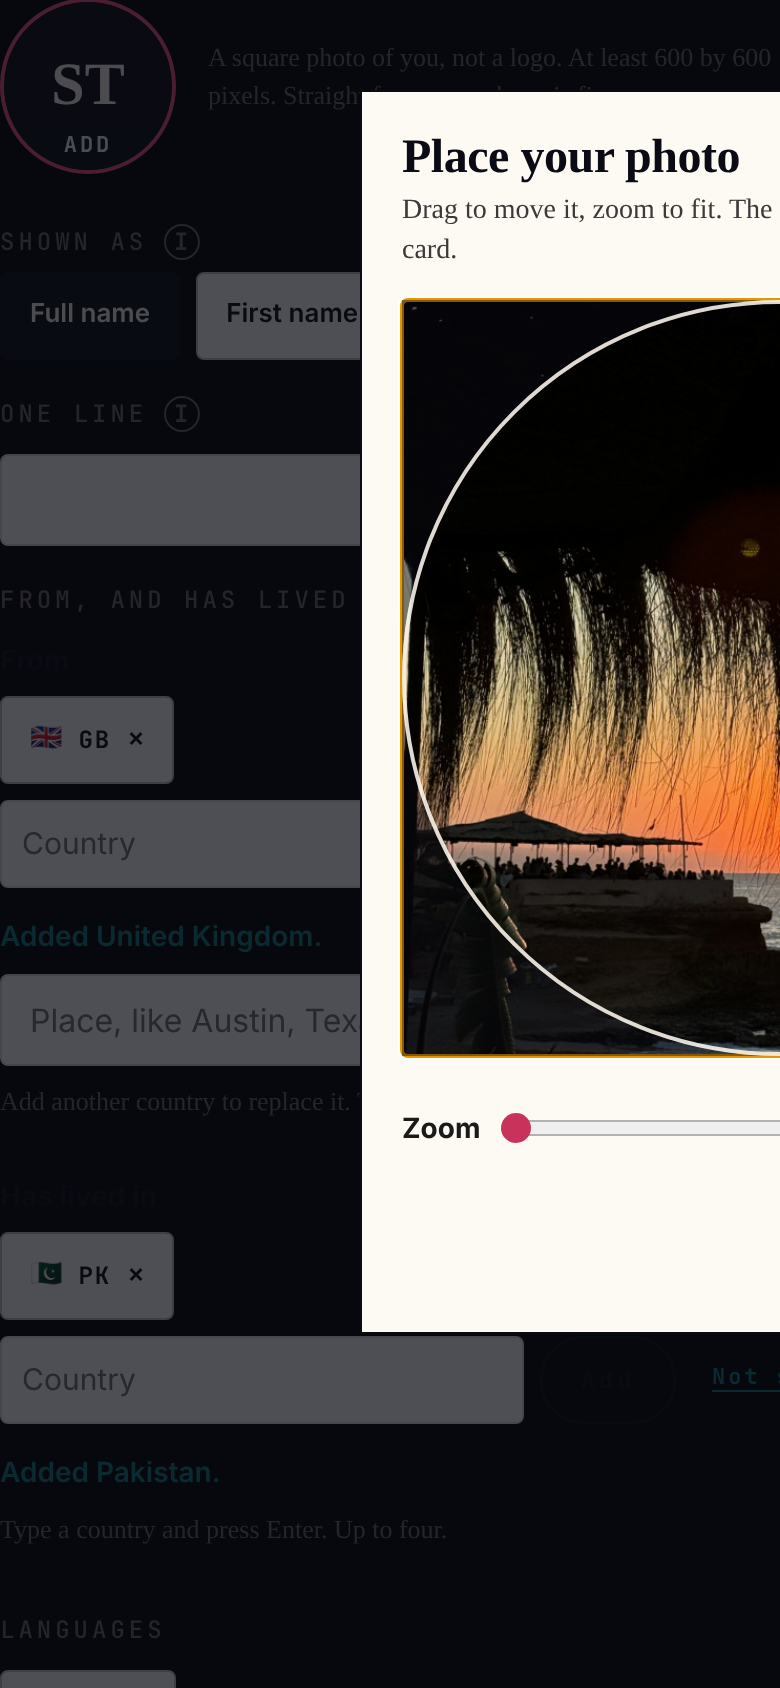
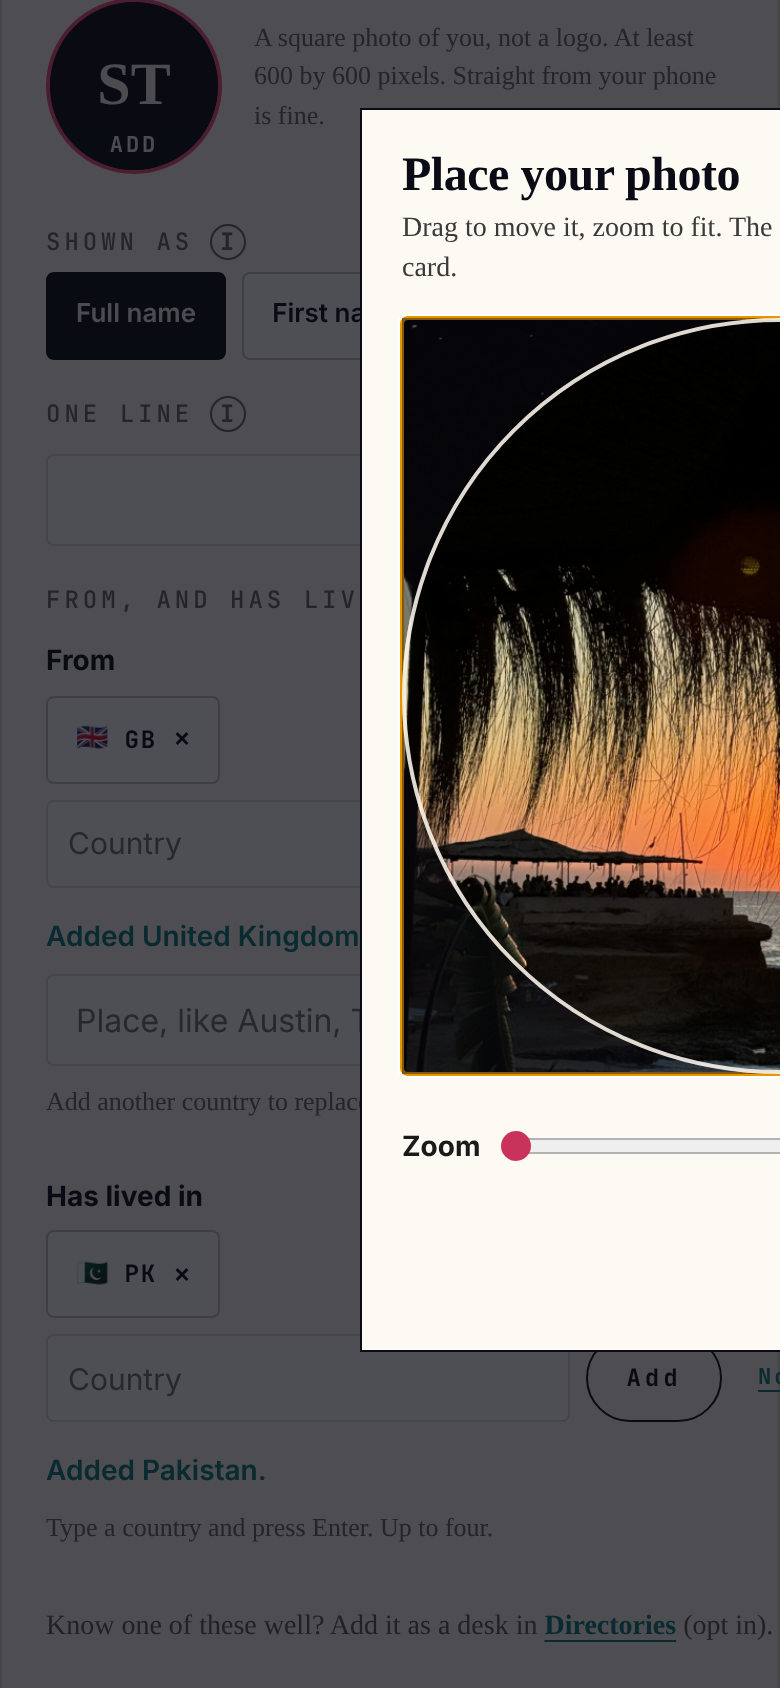
/edit-profile: Directories marked opt in and tied to Claim your desk; one-tap desks from From and Has lived in; + Antarctica in the preview
Claude-Session: https://claude.ai/code/session_01GTTttGvX2VTwovAB2g1cLf

diff --git a/src/site-layers/tll-ep-ux-v1.js b/src/site-layers/tll-ep-ux-v1.js
@@ -36,6 +36,12 @@ var CSS=
 ".tll-eps-btn--ghost{background:transparent;color:#0A0B14!important}"+
 ".tll-eps-btn:focus-visible{outline:3px solid #C8325B;outline-offset:2px}"+
 /* preview card: "80-something +AQ" broke mid-word in a third of the card; stats now wrap as whole words */
+"html body .ep-pv-stats b .tll-eps-aq{display:block;margin-top:4px;font:600 12px/1.3 'JetBrains Mono',ui-monospace,monospace!important;letter-spacing:.12em;text-transform:uppercase;color:inherit}"+
+"html body p.ep-note.tll-eps-lived,html body p.tll-eps-optin{margin:8px 0 0;font-size:14px;line-height:1.45;color:#5F5A54}html body p.tll-eps-optin{margin:0 0 16px;padding:10px 12px;border-left:3px solid #067A79;background:#FFFFFF}"+
+"html body p.ep-note.tll-eps-lived a,html body p.tll-eps-optin a{color:#067A79;font-weight:600;text-decoration:underline;text-underline-offset:3px}html body p.ep-note.tll-eps-lived a:hover,html body p.tll-eps-optin a:hover{color:#C8325B}"+
+"html body #ep-dirs-h>span:not(.tll-eps-chip){display:none}"+
+".tll-eps-quick{display:flex;flex-wrap:wrap;gap:8px;align-items:center;margin:12px 0 4px}.tll-eps-quick[hidden]{display:none}.tll-eps-quick>span{width:100%;font-size:14px;color:#5F5A54}"+
+".tll-eps-qb{min-height:40px;padding:8px 12px;border:1.5px solid #0A0B14;border-radius:999px;background:#FFFFFF;color:#0A0B14;font:600 14px/1.2 'IBM Plex Sans Condensed',system-ui,sans-serif;cursor:pointer}.tll-eps-qb:hover{border-color:#C8325B;color:#C8325B}.tll-eps-qb:focus-visible{outline:3px solid #C8325B;outline-offset:2px}"+
 "html body .ep-pv-stats{display:flex!important;flex-wrap:wrap;gap:12px 22px}html body .ep-pv-stats>*{min-width:0}html body .ep-pv-stats b{white-space:nowrap;overflow-wrap:normal!important;word-break:keep-all;font-size:28px!important}"+
 /* blocks (Nancy: "too long. Should be in blocks. Also should identify optional vs required") */
 "html body section.ep-sec.tll-eps-blk{position:relative;background:#FDF9F3;border:1.5px solid #E0DACE;border-radius:4px;padding:22px 22px 24px!important;margin:0 0 16px!important}"+
@@ -171,7 +177,7 @@ D.addEventListener('change',function(e){var t=e.target;if(!t||t.id!=='ep-f-photo
   e.stopImmediatePropagation();e.preventDefault();cropFlow(f,t);},true);
 
 /* ---------- 6: the page as blocks ---------- */
-var CHIP={'ep-who':['Name required','req'],'ep-dirs':null};
+var CHIP={'ep-who':['Name required','req'],'ep-dirs':['Opt in','']};
 function setShut(sec,shut){sec.classList.toggle('tll-eps-shut',shut);var b=sec.querySelector(':scope>.tll-eps-tog');if(b){b.textContent=shut?'Open':'Close';b.setAttribute('aria-expanded',shut?'false':'true');}}
 function openTo(id){var sec=D.getElementById(id);if(sec&&sec.classList.contains('tll-eps-blk'))setShut(sec,false);}
 /* Some parts of a section are their own embeds after it (Shown as, One line, From and lived in after Who you are; the bio note after
@@ -192,8 +198,37 @@ function blocks(){gather();[].forEach.call(D.querySelectorAll('section.ep-sec[id
     if(e.target.closest&&e.target.closest('[data-ep-dev-next],[data-ep-next]'))[].forEach.call(D.querySelectorAll('section.tll-eps-shut'),function(x){setShut(x,false);});},true);
   addEventListener('hashchange',function(){openTo(location.hash.slice(1));});}
 
+/* ---------- 7: where you have lived, and the expat desks (Nancy: "We ask the expat question twice"; "The expat desk should still be
+   tied here with this form tied to the expat submission. This is definitely opt in.") ----------
+   Has lived in under Who you are stays the everyday question. The Directories block is marked Opt in, with a line at its top that points
+   to the location expert application on /for-expats. Under Has lived in, a line points to the desks. Inside the desks, each country
+   from From and Has lived in with no desk yet is offered as one tap ("Add a desk for Denmark"), which runs the page's own desk Add, so
+   nothing new is stored and nothing is added without a tap. The preview's Antarctica mark reads "+ Antarctica" in place of AQ. */
+var LIVED_NOTE='Know one of these well? Add it as a desk in <a href="#ep-dirs">Directories</a> (opt in).';
+var OPTIN_NOTE='Add a desk only for a place you know well enough to help a visitor. Want to be listed as a location expert? <a href="/for-expats#tll-expert-apply">Claim your desk →</a>';
+function livedPaint(E){var lf=D.querySelector('[data-ep-livedflags]'),sub=lf&&lf.closest('.ep-sub'),L=E.list(E.get('from-and-lived-in'));
+  if(sub){var n=D.getElementById('tll-eps-lived');if(!n){n=el('p','ep-note tll-eps-lived');n.id='tll-eps-lived';n.innerHTML=LIVED_NOTE;sub.appendChild(n);}
+    var h=L.length<2;if(n.hidden!==h)n.hidden=h;}
+  var dirs=D.getElementById('ep-dirs');if(dirs&&!D.getElementById('tll-eps-optin')){var o=el('p','tll-eps-optin');o.id='tll-eps-optin';o.innerHTML=OPTIN_NOTE;
+    var ld=dirs.querySelector(':scope>p.ep-lede'),h2=dirs.querySelector(':scope>h2.ep-eb'),at=ld||h2;if(at)at.parentNode.insertBefore(o,at.nextSibling);else dirs.insertBefore(o,dirs.firstChild);}
+  var box=D.querySelector('[data-ep-desks]'),add=box&&box.querySelector('.ep-desk-add');
+  if(add){var qk=D.getElementById('tll-eps-quick');if(!qk){qk=el('div','tll-eps-quick');qk.id='tll-eps-quick';add.parentNode.insertBefore(qk,add);}
+    var have={};(E.desksShown||E.jsonList('desks')).forEach(function(d){if(d&&d.c)have[d.c]=1;});
+    var todo=L.filter(function(c,i){return c&&!have[c]&&L.indexOf(c)===i;}),key=todo.join(',');
+    if(qk.getAttribute('data-k')!==key){qk.setAttribute('data-k',key);qk.innerHTML='';
+      if(todo.length){var t=el('span');t.textContent='From your profile:';qk.appendChild(t);
+        todo.forEach(function(c){var b=el('button','tll-eps-qb');b.type='button';b.setAttribute('data-tll-desk',c);b.textContent='Add a desk for '+E.cname(c);qk.appendChild(b);});}}
+    var hid=!todo.length;if(qk.hidden!==hid)qk.hidden=hid;}
+  var pc=D.querySelector('[data-ep-pv-countries]');
+  if(pc&&!pc.querySelector('.tll-eps-aq')&&/ \+AQ$/.test(pc.textContent)){var t2=pc.textContent.replace(/ \+AQ$/,'');pc.textContent=t2;var a=el('small','tll-eps-aq');a.textContent='+ Antarctica';pc.appendChild(a);}}
+function lived(){var E=window.TLLEP;if(!E||!E.paint||!E.list)return false;if(E.__tllLived)return true;E.__tllLived=1;
+  D.addEventListener('click',function(e){var b=e.target.closest&&e.target.closest('[data-tll-desk]');if(!b)return;
+    var q=D.querySelector('[data-ep-deskq]'),ab=D.querySelector('[data-ep-desk-add]');if(!q||!ab)return;
+    q.value=E.cname(b.getAttribute('data-tll-desk'));ab.click();});
+  var P=E.paint;E.paint=function(){var r=P.apply(this,arguments);livedPaint(E);return r;};livedPaint(E);return true;}
+
 function run(){if(!D.getElementById('tll-ep-ux-v1')){var s=el('style');s.id='tll-ep-ux-v1';s.textContent=CSS;D.head.appendChild(s);}
-  buildBar();watchShifts();blocks();BOXES.forEach(function(b){wireBox(b[0],b[1]);});
+  buildBar();watchShifts();blocks();if(!lived())addEventListener('load',lived);BOXES.forEach(function(b){wireBox(b[0],b[1]);});
   /* boxes the page draws later (the expat desks open when Live there is switched on) */
   new MutationObserver(function(){BOXES.forEach(function(b){wireBox(b[0],b[1]);});}).observe(D.body,{childList:true,subtree:true});}
 if(D.readyState==='loading')D.addEventListener('DOMContentLoaded',run);else run();
